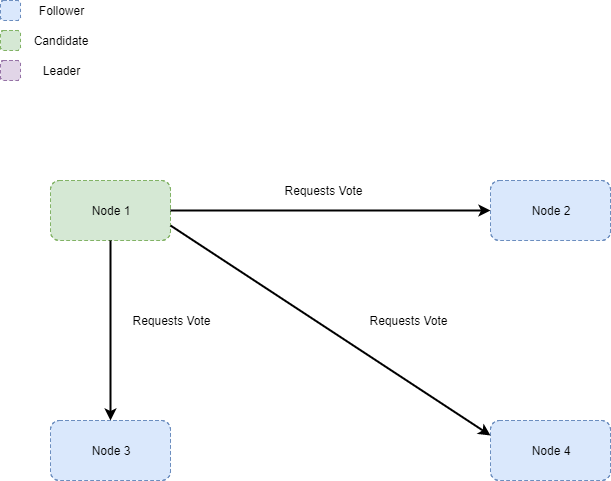
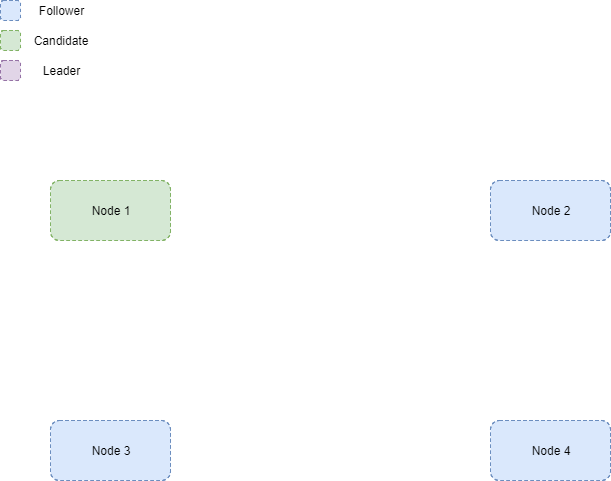
update

diff --git a/README.md b/README.md
@@ -4,7 +4,7 @@ Raft is a consensus algorithm designed as an alternative to Paxos. It was meant 
 
 ## The Basics
 
-All nodes starts as a `follower` and will remain in this state until:
+All nodes starts as a `Follower` and will remain in this state until the `Heartbeat Timeout` has been exceeded.
 
 * The `Election Timeout` has been exceeded.
 
@@ -14,4 +14,15 @@ OR
 
 ![](https://github.com/barend-erasmus/raft-consensus-algorithm/raw/master/images/raft-consensus-algorithm-1.png)
 
-## To be continued...
+### Follower to Candidate
+
+When the `Heartbeat Timeout` has been exceeded, the node changes from a `Follower` to a `Candidate`.
+
+The node also set its `Election Timeout` to a random value between 150ms - 300ms.
+
+![](https://github.com/barend-erasmus/raft-consensus-algorithm/raw/master/images/raft-consensus-algorithm-2.png)
+
+### Candidate to Leader
+
+To be continued..
+
